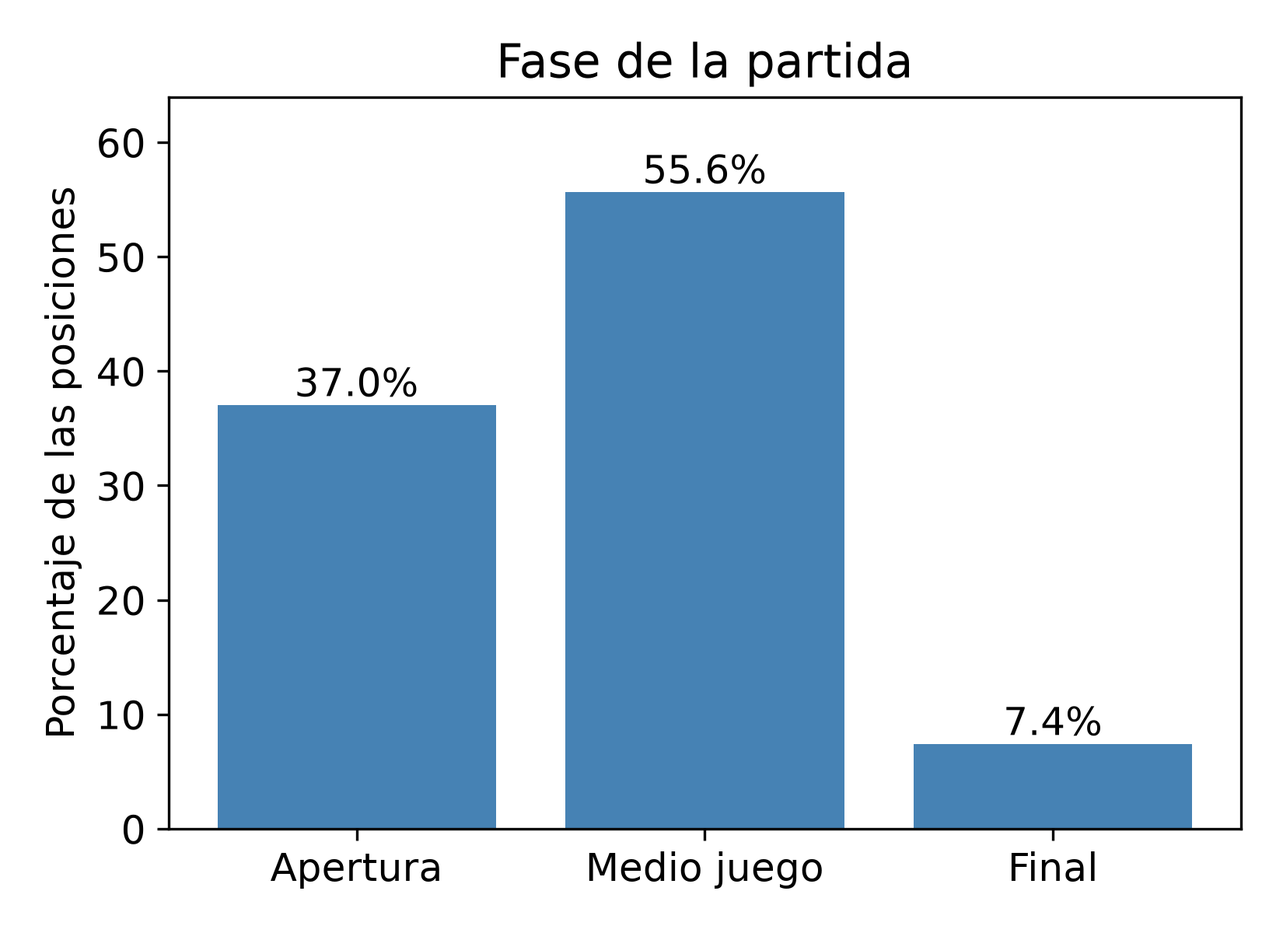
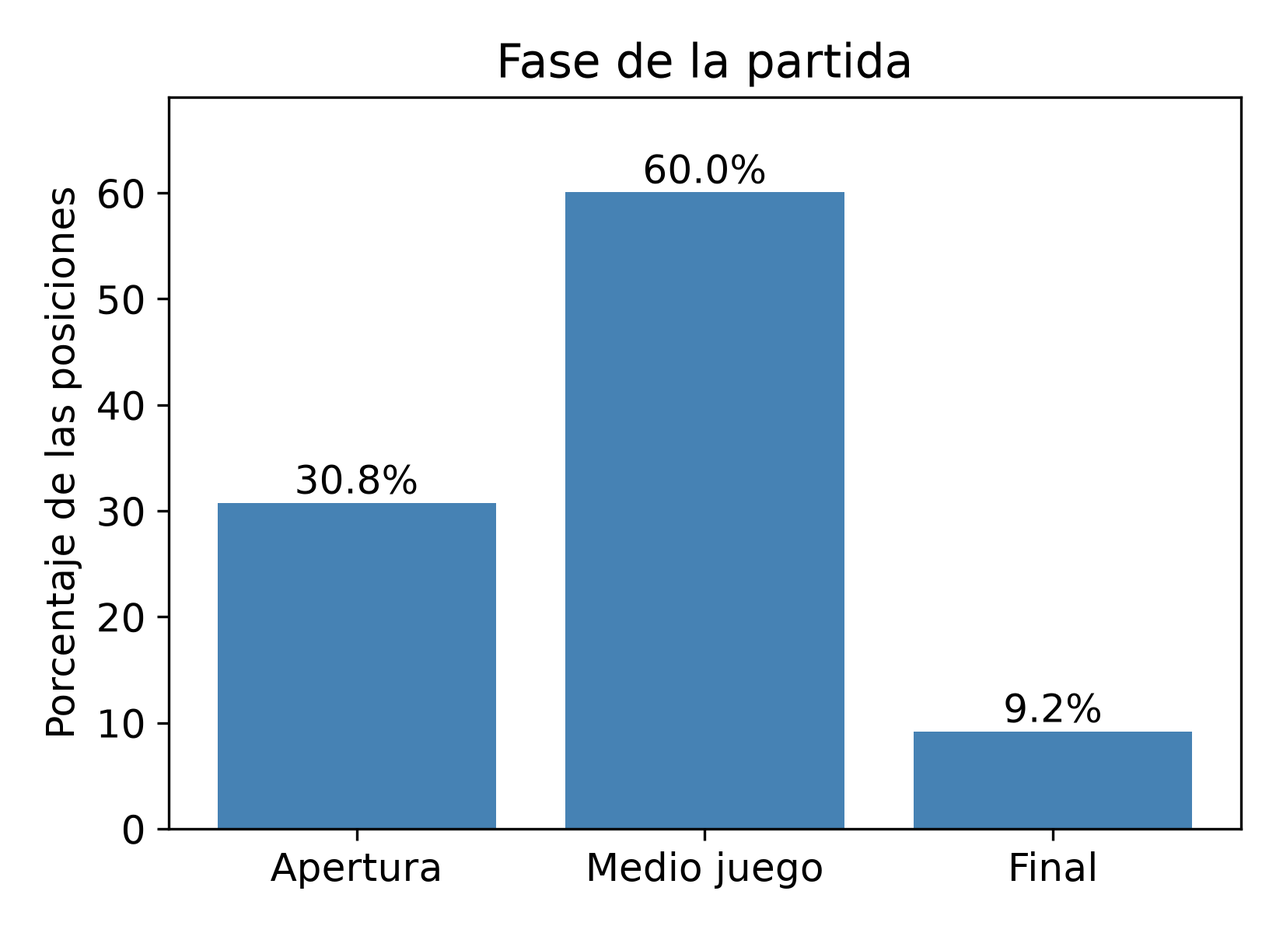
update: reporte con las partidas de septiembre de 2026 en datos, ETL y EDA

diff --git a/reporte/reporte.tex b/reporte/reporte.tex
@@ -182,7 +182,7 @@ El objetivo de este proyecto es construir, con técnicas de \textit{deep learnin
 \newline
 Para lograrlo, el modelo aprende de partidas reales. Planteé el problema como una \textbf{clasificación multiclase supervisada}, con el mismo flujo de una red convolucional para Fashion MNIST, solo que con otro tipo de imagen y muchas más clases. El tablero se trata como una imagen pequeña: una cuadrícula de $8\times8$ casillas con varios canales, donde cada canal indica dónde están las piezas de un tipo y color. La red recibe esa imagen y produce, con una capa \textit{softmax}, una probabilidad para cada jugada posible. La etiqueta de cada ejemplo es la jugada que de verdad se jugó en esa posición, y el modelo juega eligiendo la jugada más probable entre las legales.
 \newline
-Como aprende de jugadores de nivel medio, se espera que juegue parecido a ellos y no como un motor de ajedrez. Por eso, la primera forma de evaluarlo es medir qué tan seguido elige la jugada que hizo la persona.
+Como aprende de partidas entre jugadores humanos de nivel alto, se espera que juegue parecido a ellos y no como un motor de ajedrez. Por eso, la primera forma de evaluarlo es medir qué tan seguido elige la jugada que hizo la persona.
 
 \subsection{Alcance}
 
@@ -277,34 +277,42 @@ Estos trabajos muestran que predecir la jugada exacta es difícil: Maia, con una
 
 Utilicé la \textit{Lichess Open Database}~\cite{lichessDatabase}, que publica cada mes todas las partidas jugadas en Lichess con licencia CC0. Cada archivo está en formato PGN comprimido con Zstandard (\texttt{.pgn.zst}). Los meses recientes pesan alrededor de 30 GB comprimidos cada uno, mientras que los primeros meses de la base son mucho más pequeños.
 \newline
-Para construir y depurar el \textit{pipeline} elegí el archivo de marzo de 2013 (\path{lichess_db_standard_rated_2013-03.pgn.zst}): pesa 22.5 MB comprimido y 122.5 MB descomprimido, y contiene 158,635 partidas con calificación (\textit{rated}). Cada partida trae encabezados con el tipo de evento, el Elo de ambos jugadores, el resultado, el control de tiempo y la forma en que terminó, seguidos de las jugadas en notación algebraica.
+Primero construí y probé el \textit{pipeline} con el archivo de marzo de 2013 (\path{lichess_db_standard_rated_2013-03.pgn.zst}), que pesa 22.5 MB comprimido y contiene 158,635 partidas con calificación (\textit{rated}). Ese mes tiene una limitación clara: casi no hay jugadores de nivel alto. Solo en 13 partidas que no son Bullet ambos jugadores tienen un Elo de 2,200 o más.
+\newline
+Por eso el conjunto definitivo sale del mes completo más reciente al momento de procesarlo, septiembre de 2026 (\path{lichess_db_standard_rated_2026-09.pgn.zst}): pesa 29.2 GB comprimido y contiene 89,616,462 partidas. La tabla~\ref{tab:datos-meses} compara los dos meses. Cada partida trae encabezados con el tipo de evento, el Elo de ambos jugadores, el resultado, el control de tiempo y la forma en que terminó, seguidos de las jugadas en notación algebraica. En los meses recientes los encabezados también incluyen el título del jugador, como GM o BOT (las cuentas de programas de ajedrez), y las jugadas vienen acompañadas de comentarios con el tiempo que le quedaba a cada jugador.
 
 \begin{table}[H]
 	\centering
 	\footnotesize
-	\begin{tabular}{L{4.6cm}r}
+	\setlength{\tabcolsep}{4pt}
+	\begin{tabular}{L{3.9cm}rr}
 		\hline
-		Característica & Valor \\
+		Característica & 2013-03 & 2026-09 \\
 		\hline
-		Partidas & 158,635 \\
-		Partidas Bullet (incluye torneos) & 43,548 \\
-		Partidas Blitz (fuera de torneos) & 59,578 \\
-		Partidas clásicas (fuera de torneos) & 54,107 \\
-		Victorias de las blancas & 80,486 \\
-		Victorias de las negras & 72,796 \\
-		Tablas & 5,353 \\
-		Terminadas normalmente & 110,271 \\
-		Terminadas por tiempo & 48,364 \\
-		Elo de las blancas (mín.) & 802 \\
-		Elo de las blancas (media) & 1,607 \\
-		Elo de las blancas (máx.) & 2,412 \\
+		Tamaño comprimido & 22.5 MB & 29.2 GB \\
+		Partidas & 158,635 & 89,616,462 \\
+		Bullet (con UltraBullet) & 43,548 & 32,517,004 \\
+		Blitz & 60,655 & 41,228,526 \\
+		Rápidas & -- & 15,224,219 \\
+		Clásicas & 54,155 & 555,136 \\
+		Por correspondencia & 277 & 91,577 \\
+		En torneos & 2,030 & 7,353,507 \\
+		Con alguna cuenta BOT & 0 & 434,571 \\
+		Victorias de las blancas & 80,486 & 44,474,193 \\
+		Victorias de las negras & 72,796 & 41,504,000 \\
+		Tablas & 5,353 & 3,417,815 \\
+		Terminadas normalmente & 110,271 & 60,590,231 \\
+		Terminadas por tiempo & 48,364 & 28,564,435 \\
+		Elo de las blancas (mín.) & 802 & 400 \\
+		Elo de las blancas (media) & 1,607 & 1,644 \\
+		Elo de las blancas (máx.) & 2,412 & 3,602 \\
 		\hline
 	\end{tabular}
-	\caption{Características del archivo de marzo de 2013, calculadas leyendo los encabezados de todas las partidas.}
-	\label{tab:datos-2013-03}
+	\caption{Características de los dos meses, calculadas leyendo los encabezados de todas las partidas. En 2013 Lichess todavía no tenía la categoría de partidas rápidas.}
+	\label{tab:datos-meses}
 \end{table}
 
-Este mes sirvió para construir y probar el \textit{pipeline}, pero tiene una limitación clara: casi no hay jugadores de nivel muy alto. El conjunto definitivo usará las partidas más recientes de Lichess; como cada mes pesa alrededor de 30 GB, se descargarán y procesarán de uno en uno.
+El Elo medio de los dos meses es parecido, pero en 2026 el rango es mucho más amplio: hay más de un millón y medio de partidas que no son Bullet entre jugadores humanos con un Elo de 2,200 o más. De esas partidas sale el conjunto que uso.
 
 \subsection{Proceso de ETL}
 
@@ -312,30 +320,40 @@ Para leer las partidas y generar las jugadas legales utilicé la biblioteca \tex
 
 \subsubsection{\textit{Extraction}}
 
-El archivo se lee en \textit{streaming}: se descomprime por bloques y se procesa una partida a la vez. Así nunca se guarda el PGN descomprimido en disco ni se carga completo en memoria, lo que será necesario con los meses recientes.
+El archivo se lee en \textit{streaming}: se descomprime por bloques y se procesa una partida a la vez. Así nunca se guarda el PGN descomprimido en disco, que en un mes reciente ocuparía cientos de gigabytes, ni se carga completo en memoria.
+\newline
+Reconstruir el tablero jugada por jugada es el paso más lento, y en un mes reciente la gran mayoría de las partidas se descarta. Por eso primero leo solo los encabezados de cada partida y aplico con ellos los filtros. Únicamente analizo las jugadas de las partidas que los pasan. Con esto, el mes completo se procesa en unos 25 minutos.
 
 \subsubsection{\textit{Transforming}}
 
 \paragraph{Filtros}
 
-Descarté las partidas Bullet, porque con tan poco tiempo las jugadas son más impulsivas y menos representativas. También descarté las partidas en las que falta el Elo de alguno de los dos jugadores, porque lo necesito para analizar los resultados por nivel. No encontré partidas con errores de lectura ni partidas sin jugadas.
-\newline
-Además, a partir del análisis exploratorio (sección~\ref{sec:eda}), omití las posiciones en las que el jugador que mueve tiene un Elo de exactamente 1,500: eran 28,541 posiciones (2.1\%), un pico que probablemente corresponde a jugadores nuevos que conservan la calificación inicial. Este filtro es por posición, no por partida: las jugadas del rival se conservan.
+Apliqué los filtros en este orden (tabla~\ref{tab:filtros}):
+\begin{itemize}[leftmargin=*]
+	\item \textbf{Ritmo:} descarté las partidas Bullet y UltraBullet, porque con tan poco tiempo las jugadas son más impulsivas y menos representativas.
+	\item \textbf{Cuentas BOT:} descarté las partidas en las que juega alguna cuenta BOT. Son programas de ajedrez, y quiero que el modelo aprenda de jugadas humanas. Este filtro lo agregué a partir del análisis exploratorio (sección~\ref{sec:eda}).
+	\item \textbf{Nivel:} conservé solo las partidas en las que ambos jugadores tienen un Elo de 2,200 o más, para que el modelo aprenda de jugadores de nivel alto. Este filtro deja fuera a la gran mayoría de las partidas del mes.
+	\item \textbf{Muestra aleatoria:} las partidas que pasan los filtros anteriores son 1,507,816. Con 12 posiciones cada una serían unos 18 millones de posiciones, más de lo que mi computadora puede procesar con holgura y demasiado para entrenar en un tiempo razonable sin GPU. Por eso tomé al azar una de cada cuatro, con una semilla fija. Muestrear todo el mes, en lugar de quedarme con sus primeros días, evita que el conjunto dependa de unas fechas en particular.
+\end{itemize}
+Ninguna partida venía sin Elo ni con errores de lectura, y 468 de las elegidas no tenían jugadas.
 
 \begin{table}[H]
 	\centering
 	\footnotesize
-	\begin{tabular}{lr}
+	\begin{tabular}{L{4.4cm}r}
 		\hline
 		Paso & Partidas \\
 		\hline
-		Partidas leídas & 158,635 \\
-		Descartadas por ser Bullet & 43,548 \\
-		Descartadas por no tener Elo & 290 \\
-		\textbf{Partidas utilizadas} & \textbf{114,797} \\
+		Partidas leídas & 89,616,462 \\
+		Bullet o UltraBullet & 32,517,004 \\
+		Con alguna cuenta BOT & 325,060 \\
+		Algún jugador con Elo menor a 2,200 & 55,266,582 \\
+		Fuera de la muestra aleatoria & 1,130,890 \\
+		Sin jugadas & 468 \\
+		\textbf{Partidas utilizadas} & \textbf{376,458} \\
 		\hline
 	\end{tabular}
-	\caption{Partidas descartadas en cada filtro.}
+	\caption{Partidas descartadas en cada filtro del mes de septiembre de 2026, en el orden en que se aplican. Las partidas BOT que también son Bullet se cuentan como Bullet.}
 	\label{tab:filtros}
 \end{table}
 
@@ -374,7 +392,7 @@ La etiqueta es la jugada que se jugó, codificada como un número entre 0 y 4,09
 \begin{equation*}
 	\text{clase} = 64 \times \text{origen} + \text{destino},
 \end{equation*}
-donde origen y destino son las casillas numeradas de 0 (a1) a 63 (h8), recorriendo cada fila de izquierda a derecha, ya en la orientación de quien mueve. Por ejemplo, 1.e4 (de e2, casilla 12, a e4, casilla 28) es la clase $64\times12+28=796$. Gracias a la orientación, 1.e4 de las blancas y 1\dots e5 de las negras tienen la misma clase. El enroque queda representado como un movimiento del rey de dos casillas. Las promociones se representan como promoción a dama; las 109 posiciones en las que se jugó una promoción a otra pieza se omitieron.
+donde origen y destino son las casillas numeradas de 0 (a1) a 63 (h8), recorriendo cada fila de izquierda a derecha, ya en la orientación de quien mueve. Por ejemplo, 1.e4 (de e2, casilla 12, a e4, casilla 28) es la clase $64\times12+28=796$. Gracias a la orientación, 1.e4 de las blancas y 1\dots e5 de las negras tienen la misma clase. El enroque queda representado como un movimiento del rey de dos casillas. Las promociones se representan como promoción a dama; las 105 posiciones en las que se jugó una promoción a otra pieza se omitieron.
 
 \paragraph{Jugadas legales}
 
@@ -382,7 +400,7 @@ Para cada posición guardo también la lista de sus jugadas legales y el valor d
 
 \paragraph{Muestreo de posiciones}
 
-Las posiciones consecutivas de una misma partida se parecen mucho entre sí, así que no tiene sentido usar todas. De cada partida tomé al azar 12 posiciones (o todas, si la partida es más corta), con una semilla fija para que el resultado sea reproducible. Después de omitir las posiciones con Elo de 1,500 y las subpromociones, el resultado fue de \textbf{1,336,913 posiciones}.
+Las posiciones consecutivas de una misma partida se parecen mucho entre sí, así que no tiene sentido usar todas. De cada partida tomé al azar 12 posiciones (o todas, si la partida es más corta), con una semilla fija para que el resultado sea reproducible. Después de omitir las subpromociones, el resultado fue de \textbf{4,505,669 posiciones}.
 
 \subsubsection{\textit{Loading}}
 
@@ -397,12 +415,12 @@ La división en entrenamiento, validación y prueba se hace \textbf{por partida 
 		\hline
 		Conjunto & Partidas & Posiciones \\
 		\hline
-		\textit{Train} & 91,775 & 1,069,606 \\
-		\textit{Validation} & 11,471 & 133,551 \\
-		\textit{Test} & 11,473 & 133,756 \\
+		\textit{Train} & 301,166 & 3,604,441 \\
+		\textit{Validation} & 37,645 & 450,591 \\
+		\textit{Test} & 37,647 & 450,637 \\
 		\hline
 	\end{tabular}
-	\caption{División por partida con semilla 42. Suman 114,719 partidas porque en 78 partidas se omitieron todas las posiciones muestreadas.}
+	\caption{División por partida con semilla 42.}
 	\label{tab:split}
 \end{table}
 
@@ -410,32 +428,34 @@ El conjunto de \textit{test} no interviene en ninguna decisión: la elección de
 
 \subsubsection{Validación del proceso}
 
-Como un error en la codificación invalidaría todos los resultados, escribí pruebas automáticas antes de procesar los datos. Así, cualquier cambio posterior que rompa la codificación se detecta de inmediato. Entre otras cosas, comprueban que la posición inicial tenga 20 jugadas legales, que cada jugada se pueda codificar y decodificar sin pérdida (incluidos el enroque, la captura al paso y la promoción), que una posición con negras y su versión espejada tengan la misma codificación, que las etiquetas coincidan con las jugadas reales de partidas de ejemplo y que la división no repita partidas entre conjuntos.
+Como un error en la codificación invalidaría todos los resultados, escribí pruebas automáticas antes de procesar los datos. Así, cualquier cambio posterior que rompa la codificación se detecta de inmediato. Entre otras cosas, comprueban que la posición inicial tenga 20 jugadas legales, que cada jugada se pueda codificar y decodificar sin pérdida (incluidos el enroque, la captura al paso y la promoción), que una posición con negras y su versión espejada tengan la misma codificación, que las etiquetas coincidan con las jugadas reales de partidas de ejemplo, que cada filtro descarte las partidas correctas y que la división no repita partidas entre conjuntos.
+\newline
+Cuando agregué la lectura previa de los encabezados, comprobé que, sin los filtros nuevos, el proceso producía exactamente el mismo conjunto que antes con el mes de 2013.
 
 % =====================================================================
 \section{Análisis exploratorio de los datos}
 \label{sec:eda}
 
-Antes de entrenar revisé el conjunto procesado (1,336,913 posiciones) para conocer a los jugadores, el momento de la partida en que ocurre cada posición, las jugadas que se eligen y qué tanto se repiten las posiciones entre partidas.
+Antes de entrenar revisé el conjunto procesado (4,505,669 posiciones) para conocer a los jugadores, el momento de la partida en que ocurre cada posición, las jugadas que se eligen y qué tanto se repiten las posiciones entre partidas.
 
 \subsection{Nivel de los jugadores}
 
-El Elo del jugador que mueve va de 1,254 a 1,902 en el 90\% central de las posiciones, con mediana de 1,574 y máximo de 2,359 (figura~\ref{fig:eda-elo}). Casi no hay jugadores de nivel muy alto.
+El Elo del jugador que mueve va de 2,213 a 2,585 en el 90\% central de las posiciones, con mediana de 2,327 y máximo de 3,010 (figura~\ref{fig:eda-elo}). El 29.0\% de las posiciones corresponde a jugadores con 2,400 o más y el 1.2\%, a jugadores con 2,700 o más. En el mes de 2013, en cambio, la mediana era de 1,574 y el máximo de 2,359.
 \newline
-En la primera versión de este histograma apareció un pico en exactamente 1,500, con el 2.1\% de las posiciones. Probablemente son jugadores nuevos que conservan la calificación inicial, y en ese caso su Elo todavía no refleja su nivel, así que omití esas posiciones en el ETL. No apliqué ningún otro filtro de Elo: prefiero conservar todos los niveles y, al evaluar, reportar los resultados por rango.
+En la primera versión de este histograma apareció un segundo pico alrededor de 3,000. Al revisar los encabezados encontré que eran cuentas BOT. En las primeras 28 horas del mes, el 5.7\% de las partidas que no son Bullet entre jugadores de 2,200 o más tenía al menos una cuenta BOT, casi siempre una contra otra, con un Elo mediano de 2,718. Como son jugadas de programas y no de personas, excluí esas partidas en el ETL.
 
 \begin{figure}[H]
 	\centering
 	\includegraphics[width=\columnwidth]{figuras/eda_elo.png}
-	\caption{Elo del jugador que mueve, ya sin las posiciones con Elo de 1,500.}
+	\caption{Elo del jugador que mueve, ya sin las partidas de cuentas BOT.}
 	\label{fig:eda-elo}
 \end{figure}
 
 \subsection{Momento de la partida y fases}
 
-Las posiciones se concentran en los primeros \textit{plies} y su frecuencia baja conforme avanza la partida, porque muchas partidas terminan antes (figura~\ref{fig:eda-ply}); el \textit{ply} promedio es 33.9. El 78.8\% de las posiciones ocurre después del \textit{ply} 10.
+Las posiciones se concentran en los primeros \textit{plies} y su frecuencia baja conforme avanza la partida, porque muchas partidas terminan antes (figura~\ref{fig:eda-ply}); el \textit{ply} promedio es 39.1. El 82.9\% de las posiciones ocurre después del \textit{ply} 10.
 \newline
-Para analizar los resultados por fase definí tres grupos. El \textbf{final} son las posiciones con 12 piezas o menos, contando a los reyes; la \textbf{apertura}, el resto de las posiciones antes del \textit{ply} 20 (diez jugadas de cada bando); y el \textbf{medio juego}, todo lo demás. Con esta definición, el 37.0\% de las posiciones es de apertura, el 55.6\% de medio juego y el 7.4\% de final (figura~\ref{fig:eda-fases}). Como el final tiene pocas posiciones, sus resultados tendrán más incertidumbre.
+Para analizar los resultados por fase definí tres grupos. El \textbf{final} son las posiciones con 12 piezas o menos, contando a los reyes; la \textbf{apertura}, el resto de las posiciones antes del \textit{ply} 20 (diez jugadas de cada bando); y el \textbf{medio juego}, todo lo demás. Con esta definición, el 30.8\% de las posiciones es de apertura, el 60.1\% de medio juego y el 9.2\% de final (figura~\ref{fig:eda-fases}). Como el final tiene pocas posiciones, sus resultados tendrán más incertidumbre.
 
 \begin{figure}[H]
 	\centering
@@ -453,9 +473,9 @@ Para analizar los resultados por fase definí tres grupos. El \textbf{final} son
 
 \subsection{Jugadas legales y la línea base del azar}
 
-Cada posición tiene en promedio \textbf{30.2 jugadas legales}, con un mínimo de 1 y un máximo de 113 (figura~\ref{fig:eda-legales}). El pico en 20 corresponde a la posición inicial y a otras posiciones de apertura muy parecidas. El 0.9\% de las posiciones tiene una sola jugada legal y el 5.1\%, cuatro o menos.
+Cada posición tiene en promedio \textbf{31.0 jugadas legales}, con un mínimo de 1 y un máximo de 100 (figura~\ref{fig:eda-legales}). El pico en 20 corresponde a la posición inicial y a otras posiciones de apertura muy parecidas. El 0.6\% de las posiciones tiene una sola jugada legal y el 4.0\%, cuatro o menos.
 \newline
-Si se elige una jugada legal al azar, se acierta el \textbf{6.0\%} de las veces en promedio. Es más que $1/30.2 \approx 3.3\%$ porque en las posiciones con pocas opciones, como las de jaque, el azar acierta mucho más. Esta es la primera línea base que el modelo debe superar.
+Si se elige una jugada legal al azar, se acierta el \textbf{5.4\%} de las veces en promedio. Es más que $1/31.0 \approx 3.2\%$ porque en las posiciones con pocas opciones, como las de jaque, el azar acierta mucho más. Esta es la primera línea base que el modelo debe superar.
 
 \begin{figure*}[t]
 	\centering
@@ -466,7 +486,7 @@ Si se elige una jugada legal al azar, se acierta el \textbf{6.0\%} de las veces 
 
 \subsection{Las jugadas: clases, piezas y capturas}
 
-Solo aparecen 1,792 de las 4,096 clases posibles, porque muchas combinaciones de origen y destino no corresponden al movimiento de ninguna pieza. Además, las clases que sí aparecen están muy desbalanceadas. La figura~\ref{fig:eda-clases} ordena las jugadas de la más a la menos común y muestra qué porcentaje del total se acumula: las 68 jugadas más comunes ya son la mitad de todas las jugadas del conjunto, 329 son el 80\% y 955 el 95\%. Las otras 837 juntas apenas suman el 5\% restante. Esto significa que el modelo verá muchísimos ejemplos de unas pocas jugadas y muy pocos del resto.
+Solo aparecen 1,792 de las 4,096 clases posibles, porque muchas combinaciones de origen y destino no corresponden al movimiento de ninguna pieza. Además, las clases que sí aparecen están muy desbalanceadas. La figura~\ref{fig:eda-clases} ordena las jugadas de la más a la menos común y muestra qué porcentaje del total se acumula: las 74 jugadas más comunes ya son la mitad de todas las jugadas del conjunto, 348 son el 80\% y 989 el 95\%. Las otras 803 juntas apenas suman el 5\% restante. Esto significa que el modelo verá muchísimos ejemplos de unas pocas jugadas y muy pocos del resto.
 
 \begin{figure}[H]
 	\centering
@@ -475,9 +495,9 @@ Solo aparecen 1,792 de las 4,096 clases posibles, porque muchas combinaciones de
 	\label{fig:eda-clases}
 \end{figure}
 
-La pieza que más se mueve es el peón (29.6\%), seguida del caballo (18.7\%) y el alfil (16.1\%); la dama, la torre y el rey se mueven entre el 10.7\% y el 13.0\% de las veces (figura~\ref{fig:eda-piezas}).
+La pieza que más se mueve es el peón (29.2\%), seguida del caballo (18.4\%) y el alfil (15.6\%); la torre, la dama y el rey se mueven entre el 11.2\% y el 13.9\% de las veces (figura~\ref{fig:eda-piezas}).
 \newline
-El 23.7\% de las jugadas son capturas (figura~\ref{fig:eda-capturas}). En el 73.1\% de las posiciones hay al menos una captura disponible, pero solo en el 27.8\% de ellas se juega la captura de mayor valor. Por eso espero que la línea base de «capturar la pieza más valiosa» sea débil: la mayoría de las veces los jugadores no capturan aunque puedan.
+El 22.3\% de las jugadas son capturas (figura~\ref{fig:eda-capturas}). En el 75.7\% de las posiciones hay al menos una captura disponible, pero solo en el 25.0\% de ellas se juega la captura de mayor valor. Por eso espero que la línea base de «capturar la pieza más valiosa» sea débil: la mayoría de las veces los jugadores no capturan aunque puedan.
 
 \begin{figure}[H]
 	\centering
@@ -497,9 +517,9 @@ El 23.7\% de las jugadas son capturas (figura~\ref{fig:eda-capturas}). En el 73.
 
 Como incluí las aperturas, quise saber cuántas posiciones aparecen idénticas (mismas piezas, derechos de enroque y captura al paso) en dos o más partidas distintas. Se repiten porque muchos jugadores juegan las mismas aperturas, y eso significa que una parte de lo que aprenda el modelo en esas posiciones puede ser memoria.
 \newline
-El 17.7\% de las posiciones aparece en al menos dos partidas. Casi todas son de apertura: ahí se repite el 47.7\% de las posiciones, mientras que en el resto de la partida solo el 0.09\%. Por \textit{ply}, la posición inicial se repite siempre, en el \textit{ply} 4 el 95.1\%, en el \textit{ply} 10 el 29.8\% y desde el \textit{ply} 16 menos del 3\% (figura~\ref{fig:eda-repetidas}).
+El 21.6\% de las posiciones aparece en al menos dos partidas. Casi todas son de apertura: ahí se repite el 68.0\% de las posiciones, mientras que en el resto de la partida solo el 1.0\%. Por \textit{ply}, la posición inicial se repite siempre, en el \textit{ply} 4 el 98.6\%, en el \textit{ply} 10 el 72.1\%, en el \textit{ply} 16 el 28.7\% y desde el \textit{ply} 26 menos del 2\% (figura~\ref{fig:eda-repetidas}). Las partidas de nivel alto siguen caminos conocidos durante más jugadas, probablemente porque estos jugadores conocen más teoría de aperturas: en el mes de 2013, en el \textit{ply} 10 solo se repetía el 29.8\% de las posiciones.
 \newline
-En esas posiciones repetidas, la jugada más frecuente se elige solo el 54.5\% de las veces; en la posición inicial, el 64.2\%. Es decir, en una misma posición distintos jugadores eligen jugadas distintas, y ningún modelo que solo vea el tablero puede acertar todas: en estas posiciones, el acierto \textit{top-1} tiene un techo cercano al 55\%.
+En esas posiciones repetidas, la jugada más frecuente se elige el 62.1\% de las veces. Es decir, en una misma posición distintos jugadores eligen jugadas distintas, y ningún modelo que solo vea el tablero puede acertar todas: en estas posiciones, el acierto \textit{top-1} tiene un techo cercano al 62\%. En la posición inicial el techo es todavía más bajo, del 48.1\%, porque los jugadores reparten su primera jugada entre 1.e4 (48.1\%), 1.d4 (32.2\%), 1.\,Nf3 (8.4\%) y 1.c4 (5.9\%), entre otras.
 
 \begin{figure}[H]
 	\centering
@@ -511,11 +531,11 @@ En esas posiciones repetidas, la jugada más frecuente se elige solo el 54.5\% d
 \subsection{Conclusiones del análisis}
 
 \begin{itemize}[leftmargin=*]
-	\item Omití las posiciones con Elo de exactamente 1,500 y no apliqué otro filtro de nivel.
+	\item Usé solo partidas entre jugadores humanos con un Elo de 2,200 o más; las cuentas BOT quedaron fuera.
 	\item Las fases quedan definidas por \textit{ply} (apertura antes del 20) y por número de piezas (final con 12 o menos), y reportaré los resultados de cada una por separado.
-	\item El modelo tiene que superar al azar (6.0\%) en todo el conjunto.
-	\item Casi la mitad de las posiciones de apertura se repite entre partidas, así que en la apertura también lo compararé con el «libro» (sección~\ref{sec:lineas-base}), que solo usa memoria.
-	\item En las posiciones repetidas, el acierto \textit{top-1} no puede pasar de alrededor del 55\%, porque los jugadores no coinciden entre sí.
+	\item El modelo tiene que superar al azar (5.4\%) en todo el conjunto.
+	\item Más de dos tercios de las posiciones de apertura se repiten entre partidas, así que en la apertura también lo compararé con el «libro» (sección~\ref{sec:lineas-base}), que solo usa memoria.
+	\item En las posiciones repetidas, el acierto \textit{top-1} no puede pasar de alrededor del 62\%, porque los jugadores no coinciden entre sí.
 	\item La cola larga de clases y el bajo porcentaje de capturas de mayor valor indican que el modelo tendrá que aprender jugadas poco frecuentes y que una regla sencilla no bastará.
 \end{itemize}
 
@@ -537,7 +557,7 @@ La métrica principal se calcula sobre \textbf{todas} las posiciones, incluidas 
 
 Todas las métricas se comparan con cuatro líneas base calculadas con los mismos datos:
 \begin{enumerate}[leftmargin=*]
-	\item una jugada legal al azar (6.0\% de acierto esperado);
+	\item una jugada legal al azar (5.4\% de acierto esperado);
 	\item la jugada legal más frecuente en el conjunto de entrenamiento;
 	\item la captura de mayor valor, si existe;
 	\item un «libro»: si la posición exacta aparece en entrenamiento, la jugada que más se jugó en ella. Esta línea base mide cuánto se puede acertar solo con memoria, sobre todo en la apertura, donde las mismas posiciones se repiten en muchas partidas.
